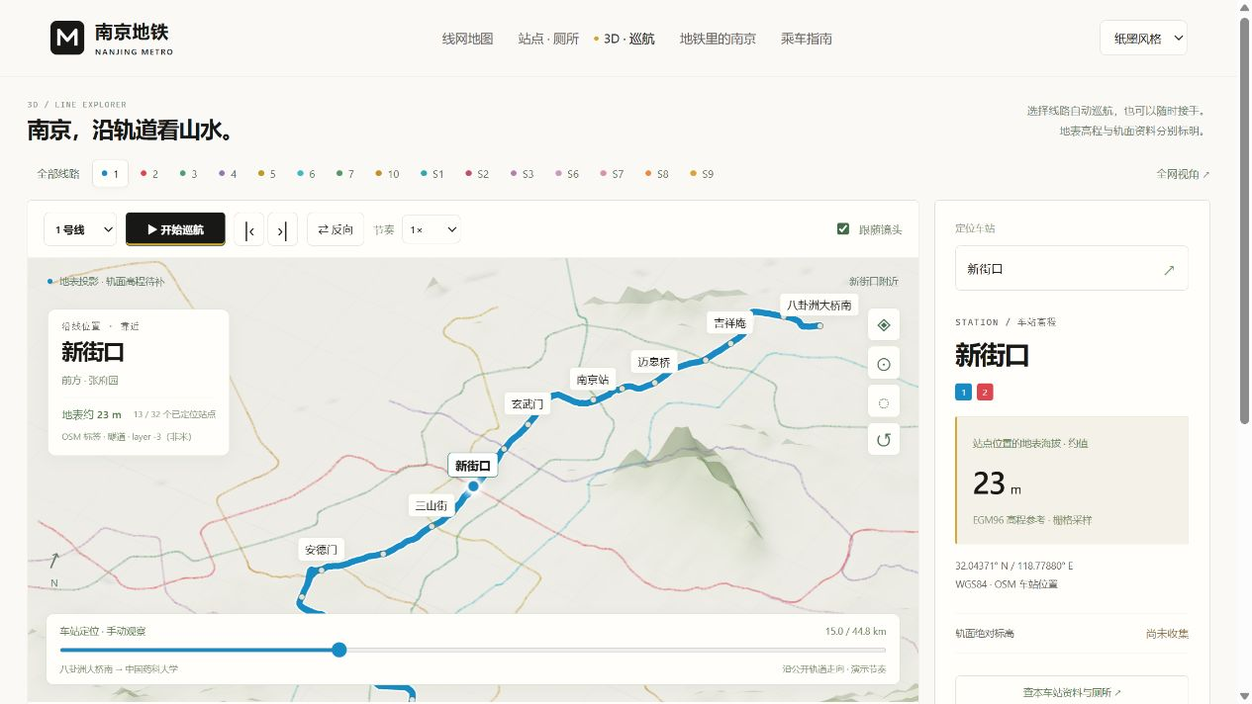
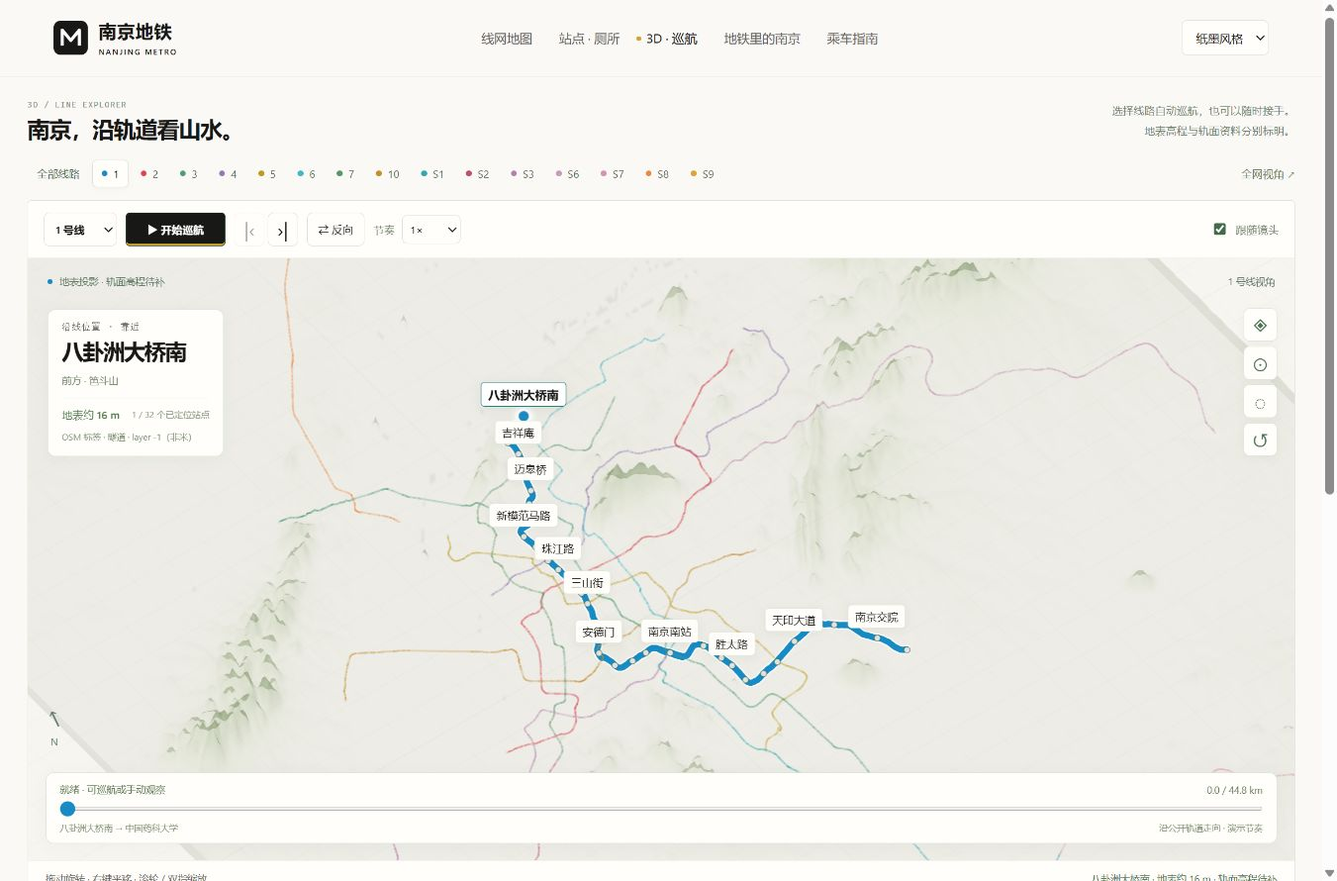
feat: 扩大巡航展示区域

diff --git a/src/terrain.css b/src/terrain.css
@@ -1,12 +1,26 @@
-:root{--bg:#f5f7f3;--ink:#21382b;--muted:#7f8c80;--border:#dce3d8;--font:Inter,"Segoe UI","PingFang SC","Microsoft YaHei",sans-serif}*{box-sizing:border-box}body{margin:0;background:var(--bg);color:var(--ink);font:14px var(--font);-webkit-font-smoothing:antialiased}button,input{font:inherit}button,a{-webkit-tap-highlight-color:transparent}button{cursor:pointer}a{color:inherit;text-decoration:none}button:focus-visible,a:focus-visible,input:focus-visible,summary:focus-visible{outline:2px solid #4d8561;outline-offset:4px}.atlas-header{height:84px;display:flex;justify-content:space-between;align-items:center;max-width:1580px;padding:0 38px;margin:auto;border-bottom:1px solid var(--border)}.atlas-brand{display:flex;align-items:center;gap:12px;font-size:18px;font-weight:650;letter-spacing:.03em}.atlas-brand small{display:block;font-size:8px;letter-spacing:.15em;font-weight:500;margin-top:5px;color:#839080}.brand-symbol{width:35px;height:35px;display:flex;align-items:center;justify-content:center;border-radius:8px;background:#233d2a;color:white;font-size:26px;font-weight:550}.back-link{font-size:12px;color:#798674}.back-link span{margin-left:15px}main{max-width:1580px;margin:auto;padding:0 38px}.atlas-heading{display:flex;align-items:flex-end;justify-content:space-between;gap:25px;padding:32px 0 25px}.eyebrow{font-size:10px;letter-spacing:.16em;color:#83917e;margin:0 0 12px}h1{font-size:32px;letter-spacing:-.05em;line-height:1.5;font-weight:600;margin:0}h1>span{color:#588253}.atlas-heading>p{font-size:11px;line-height:1.9;color:#84907f;margin:0 0 3px;text-align:right}.atlas-toolbar{display:flex;gap:15px;align-items:center;justify-content:space-between;margin-bottom:14px}.line-picker{display:flex;align-items:center;gap:5px;flex-wrap:wrap}.line-picker button{padding:7px 10px;border:1px solid transparent;border-radius:5px;background:transparent;color:#75816d;display:flex;align-items:center;gap:6px;font-size:11px}.line-picker button:hover{background:#e9eee3}.line-picker button[aria-pressed=true]{background:#233a29;color:white;border-color:#233a29}.line-picker i{width:5px;height:5px;border-radius:50%;background:var(--line-color);display:inline-block}.text-button{font-size:11px;color:#6d8362;white-space:nowrap;border:0;background:none;padding:8px 0}.atlas-workspace{display:grid;grid-template-columns:minmax(0,1fr) 290px;gap:18px}.map-card{position:relative;border:1px solid var(--border);border-radius:12px;background:#fff;min-width:0;overflow:hidden}.map-topline{position:absolute;z-index:3;top:21px;left:22px;right:22px;display:flex;justify-content:space-between;gap:12px;font-size:10px;color:#8b9682;pointer-events:none}.map-mode{display:flex;gap:7px;align-items:center}.map-mode i{width:5px;height:5px;background:#4f865d;border-radius:50%}.terrain-view{height:min(67vh,740px);min-height:540px;position:relative;touch-action:none;background:#f9fbf5;outline:0}.terrain-view canvas{display:block;width:100%;height:100%;outline:0}.terrain-labels{position:absolute;inset:0;pointer-events:none;overflow:hidden;z-index:2}.terrain-label{position:absolute;white-space:nowrap;transform:translate(-50%,-100%);font-size:10px;color:#42543d;background:#fcfdf9dd;border:1px solid #e1e8d9;border-radius:4px;padding:4px 7px;box-shadow:0 2px 4px #1b372405}.terrain-label.active{font-size:12px;font-weight:600;color:#345d3b;border-color:#8daa83;background:#fff}.terrain-label.terrain-feature{color:#92a588;font-size:11px;background:transparent;border:0;box-shadow:none;letter-spacing:.08em}.map-loading{position:absolute;inset:0;z-index:4;display:flex;flex-direction:column;gap:15px;align-items:center;justify-content:center;font-size:13px;color:#788c6a;background:#f9fbf5}.map-loading[hidden]{display:none}.map-loading a{text-decoration:underline}.map-float-controls{position:absolute;z-index:4;top:58px;right:19px;display:flex;flex-direction:column;gap:5px}.map-float-controls button{border:1px solid #dfe6d6;background:#fffffff0;border-radius:6px;width:34px;height:34px;color:#6a805d;font-size:20px}.map-float-controls button:hover{background:#edf3e7}.map-compass{position:absolute;left:22px;bottom:104px;z-index:3;font-size:10px;color:#95a28a;display:flex;flex-direction:column;align-items:center;gap:5px;pointer-events:none}.map-compass>span{font-size:25px;line-height:1}.map-foot{border-top:1px solid #edf0e8;display:flex;justify-content:space-between;gap:20px;padding:13px 20px;font-size:10px;color:#8f9b86;line-height:1.7}.map-foot>span:last-child{color:#68855e;text-align:right}.terrain-adjust{border-top:1px solid #edf0e8;padding:14px 20px;display:flex;align-items:center;gap:23px;flex-wrap:wrap;background:#fbfcf8;font-size:10px;color:#819175}.terrain-adjust label{display:flex;align-items:center;gap:12px;white-space:nowrap}.terrain-adjust input[type=range]{width:95px;height:3px;accent-color:#628958;cursor:pointer}.terrain-adjust output{min-width:28px;color:#4f774b}.terrain-adjust input[type=checkbox]{accent-color:#628958}.terrain-adjust>span{margin-left:auto;font-size:9px;color:#9aa58f}.atlas-panel{border:1px solid var(--border);border-radius:12px;background:#fff;padding:23px;min-width:0}.station-search>label{font-size:10px;color:#92a088;display:block;margin-bottom:11px}.station-search>div{display:flex;align-items:center;border:1px solid #dee6d5;border-radius:6px;background:#fafcf7}.station-search input{border:0;background:none;min-width:0;width:100%;padding:11px 12px;color:#3c5538;font-size:12px;outline:0}.station-search button{border:0;background:none;padding:10px 13px;color:#78986b;font-size:19px}.station-search output{font-size:10px;line-height:1.8;color:#a38755;display:block;margin-top:6px}.terrain-station-detail{margin-top:25px}.detail-kicker{font-size:9px;letter-spacing:.11em;color:#96a18c}.terrain-station-detail h2{font-size:28px;font-weight:550;letter-spacing:-1px;margin:8px 0 13px}.detail-line-badges{display:flex;gap:5px;margin-bottom:23px}.line-badge{padding:3px 6px;background:var(--line-color);color:white;border-radius:3px;font-size:9px}.elevation-fact{padding:19px 16px;background:#f0f5e9;border:1px solid #e3ebd8;border-radius:7px}.elevation-fact>span{font-size:10px;color:#859877}.elevation-fact>strong{display:block;font-size:36px;font-weight:550;color:#42683a;margin-top:10px;letter-spacing:-1px}.elevation-fact small{font-size:13px;letter-spacing:0;font-weight:400;margin-left:5px}.elevation-fact>p{font-size:10px;color:#96a38a;line-height:1.7;margin-bottom:0}.coordinate-fact{font-size:10px;color:#9ba58f;margin:12px 0 20px;line-height:1.9}.rail-fact{padding:13px 0;border-top:1px solid #e9ede3;border-bottom:1px solid #e9ede3;display:flex;justify-content:space-between;align-items:center;font-size:10px;color:#8f9b85}.rail-fact strong{font-size:11px;font-weight:450;color:#a18b63}.engineering-fact{margin:18px 0}.engineering-fact>h3{font-size:11px;font-weight:550;color:#667f5b;margin:0 0 10px}.engineering-record{border-left:2px solid #c1d3b1;padding-left:12px;margin:13px 0}.engineering-record p{font-size:11px;line-height:1.85;margin:0 0 6px;color:#718767}.engineering-record small{display:block;color:#a2ac95;font-size:9px;line-height:1.7}.engineering-record a{font-size:9px;color:#91a281;text-decoration:underline;text-underline-offset:3px;line-height:1.7;display:inline-block;margin-top:5px}.detail-link{display:block;border:1px solid #d9e3cc;border-radius:5px;padding:10px 13px;font-size:10px;color:#718967;margin:22px 0 0;text-align:center}.terrain-profile{border-top:1px solid #e5ebdd;margin-top:25px;padding-top:19px}.terrain-profile h3{font-size:11px;font-weight:500;margin:0 0 12px;color:#738868}.terrain-profile svg{width:100%;height:112px;overflow:visible}.terrain-profile p{font-size:9px;color:#a2ac97;line-height:1.8;margin-bottom:0}.atlas-bottom{display:flex;justify-content:space-between;gap:35px;margin:19px 0 27px}.atlas-bottom strong{font-size:10px;font-weight:500;color:#788c6e}.atlas-bottom p{font-size:10px;color:#98a28d;line-height:1.9;margin-bottom:0}.altitude-legend{width:200px;flex-shrink:0;padding-top:2px;font-size:9px;color:#96a187}.altitude-legend>i{display:block;height:5px;background:linear-gradient(to right,#e8edde,#c4d5ab,#8dab74,#6f8c5a,#d9d0ae);border-radius:4px;margin:10px 0 7px}.altitude-legend>div{display:flex;justify-content:space-between}.source-notes{border-top:1px solid var(--border);font-size:11px;color:#839576;padding:19px 0}.source-notes summary{cursor:pointer;display:flex;gap:20px;justify-content:space-between;list-style:none}.source-notes summary>span{font-size:9px;color:#9fa991}.source-notes p{font-size:10px;line-height:1.9;max-width:1000px}.source-notes a{text-decoration:underline;text-underline-offset:3px}.source-note-row{padding:13px 0;border-bottom:1px solid #e6ebdf}.source-note-row p{margin:5px 0 0}footer{max-width:1580px;margin:0 auto;padding:26px 38px 32px;border-top:1px solid var(--border);font-size:10px;color:#a0aa94;display:flex;justify-content:space-between}
-@media(min-width:1500px){.atlas-workspace{grid-template-columns:minmax(0,1fr) 320px}.atlas-panel{padding:27px}}@media(max-width:1100px){main,.atlas-header{padding-left:25px;padding-right:25px}.atlas-heading>p{display:none}.atlas-workspace{grid-template-columns:minmax(0,1fr) 260px}.atlas-panel{padding:20px}.terrain-adjust{gap:15px}.terrain-adjust>span{width:100%;margin-left:0}.terrain-view{min-height:510px}}@media(max-width:900px){.atlas-workspace{display:block}.atlas-panel{margin-top:16px;display:grid;grid-template-columns:1fr 1fr;gap:0 28px}.station-search{grid-column:1/-1}.terrain-station-detail{grid-column:1}.terrain-profile{grid-column:2;margin-top:25px;align-self:start}.terrain-view{height:560px;min-height:0}.atlas-heading{padding-top:27px}.atlas-heading h1{font-size:28px}.atlas-toolbar{align-items:flex-start}.map-topline{top:18px}.map-foot{font-size:9px}.map-float-controls{top:51px}.atlas-bottom{gap:20px}.altitude-legend{width:170px}}@media(max-width:560px){main,.atlas-header{padding-left:18px;padding-right:18px}.atlas-header{height:72px}.atlas-brand{font-size:16px}.back-link{font-size:10px}.atlas-heading h1{font-size:23px}.atlas-heading{padding-bottom:20px}.eyebrow{font-size:9px}.line-picker{gap:3px}.line-picker button{font-size:10px;padding:7px 8px}.text-button{font-size:10px}.terrain-view{height:460px}.map-topline{left:15px;right:15px;font-size:9px}.map-float-controls{right:12px}.map-compass{left:16px;bottom:126px}.map-foot{padding:12px 14px;display:block}.map-foot>span:last-child{display:block;text-align:left;margin-top:5px}.terrain-adjust{padding:12px 14px;gap:10px 15px}.terrain-adjust label{gap:9px}.terrain-adjust input[type=range]{width:84px}.atlas-panel{display:block;padding:20px}.terrain-station-detail{margin-top:20px}.atlas-bottom{display:block}.altitude-legend{margin-top:17px;width:190px}.source-notes summary>span{display:none}footer{padding:23px 18px;font-size:9px;gap:20px}.terrain-label{font-size:9px;padding:3px 5px}.terrain-label.active{font-size:10px}}
+:root{--bg:#f5f7f3;--ink:#21382b;--muted:#7f8c80;--border:#dce3d8;--font:Inter,"Segoe UI","PingFang SC","Microsoft YaHei",sans-serif}*{box-sizing:border-box}body{margin:0;background:var(--bg);color:var(--ink);font:14px var(--font);-webkit-font-smoothing:antialiased}button,input{font:inherit}button,a{-webkit-tap-highlight-color:transparent}button{cursor:pointer}a{color:inherit;text-decoration:none}button:focus-visible,a:focus-visible,input:focus-visible,summary:focus-visible{outline:2px solid #4d8561;outline-offset:4px}.atlas-header{height:84px;display:flex;justify-content:space-between;align-items:center;max-width:1580px;padding:0 38px;margin:auto;border-bottom:1px solid var(--border)}.atlas-brand{display:flex;align-items:center;gap:12px;font-size:18px;font-weight:650;letter-spacing:.03em}.atlas-brand small{display:block;font-size:8px;letter-spacing:.15em;font-weight:500;margin-top:5px;color:#839080}.brand-symbol{width:35px;height:35px;display:flex;align-items:center;justify-content:center;border-radius:8px;background:#233d2a;color:white;font-size:26px;font-weight:550}.back-link{font-size:12px;color:#798674}.back-link span{margin-left:15px}main{max-width:1580px;margin:auto;padding:0 38px}.atlas-heading{display:flex;align-items:flex-end;justify-content:space-between;gap:25px;padding:32px 0 25px}.eyebrow{font-size:10px;letter-spacing:.16em;color:#83917e;margin:0 0 12px}h1{font-size:32px;letter-spacing:-.05em;line-height:1.5;font-weight:600;margin:0}h1>span{color:#588253}.atlas-heading>p{font-size:11px;line-height:1.9;color:#84907f;margin:0 0 3px;text-align:right}.atlas-toolbar{display:flex;gap:15px;align-items:center;justify-content:space-between;margin-bottom:14px}.line-picker{display:flex;align-items:center;gap:5px;flex-wrap:wrap}.line-picker button{padding:7px 10px;border:1px solid transparent;border-radius:5px;background:transparent;color:#75816d;display:flex;align-items:center;gap:6px;font-size:11px}.line-picker button:hover{background:#e9eee3}.line-picker button[aria-pressed=true]{background:#233a29;color:white;border-color:#233a29}.line-picker i{width:5px;height:5px;border-radius:50%;background:var(--line-color);display:inline-block}.text-button{font-size:11px;color:#6d8362;white-space:nowrap;border:0;background:none;padding:8px 0}.map-card{position:relative;border:1px solid var(--border);border-radius:12px;background:#fff;min-width:0;overflow:hidden}.map-topline{position:absolute;z-index:3;top:21px;left:22px;right:22px;display:flex;justify-content:space-between;gap:12px;font-size:10px;color:#8b9682;pointer-events:none}.map-mode{display:flex;gap:7px;align-items:center}.map-mode i{width:5px;height:5px;background:#4f865d;border-radius:50%}.terrain-view{height:min(67vh,740px);min-height:540px;position:relative;touch-action:none;background:#f9fbf5;outline:0}.terrain-view canvas{display:block;width:100%;height:100%;outline:0}.terrain-labels{position:absolute;inset:0;pointer-events:none;overflow:hidden;z-index:2}.terrain-label{position:absolute;white-space:nowrap;transform:translate(-50%,-100%);font-size:10px;color:#42543d;background:#fcfdf9dd;border:1px solid #e1e8d9;border-radius:4px;padding:4px 7px;box-shadow:0 2px 4px #1b372405}.terrain-label.active{font-size:12px;font-weight:600;color:#345d3b;border-color:#8daa83;background:#fff}.terrain-label.terrain-feature{color:#92a588;font-size:11px;background:transparent;border:0;box-shadow:none;letter-spacing:.08em}.map-loading{position:absolute;inset:0;z-index:4;display:flex;flex-direction:column;gap:15px;align-items:center;justify-content:center;font-size:13px;color:#788c6a;background:#f9fbf5}.map-loading[hidden]{display:none}.map-loading a{text-decoration:underline}.map-float-controls{position:absolute;z-index:4;top:58px;right:19px;display:flex;flex-direction:column;gap:5px}.map-float-controls button{border:1px solid #dfe6d6;background:#fffffff0;border-radius:6px;width:34px;height:34px;color:#6a805d;font-size:20px}.map-float-controls button:hover{background:#edf3e7}.map-compass{position:absolute;left:22px;bottom:104px;z-index:3;font-size:10px;color:#95a28a;display:flex;flex-direction:column;align-items:center;gap:5px;pointer-events:none}.map-compass>span{font-size:25px;line-height:1}.map-foot{border-top:1px solid #edf0e8;display:flex;justify-content:space-between;gap:20px;padding:13px 20px;font-size:10px;color:#8f9b86;line-height:1.7}.map-foot>span:last-child{color:#68855e;text-align:right}.terrain-adjust{border-top:1px solid #edf0e8;padding:14px 20px;display:flex;align-items:center;gap:23px;flex-wrap:wrap;background:#fbfcf8;font-size:10px;color:#819175}.terrain-adjust label{display:flex;align-items:center;gap:12px;white-space:nowrap}.terrain-adjust input[type=range]{width:95px;height:3px;accent-color:#628958;cursor:pointer}.terrain-adjust output{min-width:28px;color:#4f774b}.terrain-adjust input[type=checkbox]{accent-color:#628958}.terrain-adjust>span{margin-left:auto;font-size:9px;color:#9aa58f}.station-search>label{font-size:10px;color:#92a088;display:block;margin-bottom:11px}.station-search>div{display:flex;align-items:center;border:1px solid #dee6d5;border-radius:6px;background:#fafcf7}.station-search input{border:0;background:none;min-width:0;width:100%;padding:11px 12px;color:#3c5538;font-size:12px;outline:0}.station-search button{border:0;background:none;padding:10px 13px;color:#78986b;font-size:19px}.station-search output{font-size:10px;line-height:1.8;color:#a38755;display:block;margin-top:6px}.detail-kicker{font-size:9px;letter-spacing:.11em;color:#96a18c}.terrain-station-detail h2{font-size:28px;font-weight:550;letter-spacing:-1px;margin:8px 0 13px}.detail-line-badges{display:flex;gap:5px;margin-bottom:23px}.line-badge{padding:3px 6px;background:var(--line-color);color:white;border-radius:3px;font-size:9px}.elevation-fact{padding:19px 16px;background:#f0f5e9;border:1px solid #e3ebd8;border-radius:7px}.elevation-fact>span{font-size:10px;color:#859877}.elevation-fact>strong{display:block;font-size:36px;font-weight:550;color:#42683a;margin-top:10px;letter-spacing:-1px}.elevation-fact small{font-size:13px;letter-spacing:0;font-weight:400;margin-left:5px}.elevation-fact>p{font-size:10px;color:#96a38a;line-height:1.7;margin-bottom:0}.coordinate-fact{font-size:10px;color:#9ba58f;margin:12px 0 20px;line-height:1.9}.rail-fact{padding:13px 0;border-top:1px solid #e9ede3;border-bottom:1px solid #e9ede3;display:flex;justify-content:space-between;align-items:center;font-size:10px;color:#8f9b85}.rail-fact strong{font-size:11px;font-weight:450;color:#a18b63}.engineering-fact{margin:18px 0}.engineering-fact>h3{font-size:11px;font-weight:550;color:#667f5b;margin:0 0 10px}.engineering-record{border-left:2px solid #c1d3b1;padding-left:12px;margin:13px 0}.engineering-record p{font-size:11px;line-height:1.85;margin:0 0 6px;color:#718767}.engineering-record small{display:block;color:#a2ac95;font-size:9px;line-height:1.7}.engineering-record a{font-size:9px;color:#91a281;text-decoration:underline;text-underline-offset:3px;line-height:1.7;display:inline-block;margin-top:5px}.detail-link{display:block;border:1px solid #d9e3cc;border-radius:5px;padding:10px 13px;font-size:10px;color:#718967;margin:22px 0 0;text-align:center}.terrain-profile{border-top:1px solid #e5ebdd;margin-top:25px;padding-top:19px}.terrain-profile h3{font-size:11px;font-weight:500;margin:0 0 12px;color:#738868}.terrain-profile svg{width:100%;height:112px;overflow:visible}.terrain-profile p{font-size:9px;color:#a2ac97;line-height:1.8;margin-bottom:0}.atlas-bottom{display:flex;justify-content:space-between;gap:35px;margin:19px 0 27px}.atlas-bottom strong{font-size:10px;font-weight:500;color:#788c6e}.atlas-bottom p{font-size:10px;color:#98a28d;line-height:1.9;margin-bottom:0}.altitude-legend{width:200px;flex-shrink:0;padding-top:2px;font-size:9px;color:#96a187}.altitude-legend>i{display:block;height:5px;background:linear-gradient(to right,#e8edde,#c4d5ab,#8dab74,#6f8c5a,#d9d0ae);border-radius:4px;margin:10px 0 7px}.altitude-legend>div{display:flex;justify-content:space-between}.source-notes{border-top:1px solid var(--border);font-size:11px;color:#839576;padding:19px 0}.source-notes summary{cursor:pointer;display:flex;gap:20px;justify-content:space-between;list-style:none}.source-notes summary>span{font-size:9px;color:#9fa991}.source-notes p{font-size:10px;line-height:1.9;max-width:1000px}.source-notes a{text-decoration:underline;text-underline-offset:3px}.source-note-row{padding:13px 0;border-bottom:1px solid #e6ebdf}.source-note-row p{margin:5px 0 0}footer{max-width:1580px;margin:0 auto;padding:26px 38px 32px;border-top:1px solid var(--border);font-size:10px;color:#a0aa94;display:flex;justify-content:space-between}
+@media(max-width:1100px){main,.atlas-header{padding-left:25px;padding-right:25px}.atlas-heading>p{display:none}.terrain-adjust{gap:15px}.terrain-adjust>span{width:100%;margin-left:0}.terrain-view{min-height:510px}}@media(max-width:900px){.terrain-profile{grid-column:2;margin-top:25px;align-self:start}.terrain-view{height:560px;min-height:0}.atlas-heading{padding-top:27px}.atlas-heading h1{font-size:28px}.atlas-toolbar{align-items:flex-start}.map-topline{top:18px}.map-foot{font-size:9px}.map-float-controls{top:51px}.atlas-bottom{gap:20px}.altitude-legend{width:170px}}@media(max-width:560px){main,.atlas-header{padding-left:18px;padding-right:18px}.atlas-header{height:72px}.atlas-brand{font-size:16px}.back-link{font-size:10px}.atlas-heading h1{font-size:23px}.atlas-heading{padding-bottom:20px}.eyebrow{font-size:9px}.line-picker{gap:3px}.line-picker button{font-size:10px;padding:7px 8px}.text-button{font-size:10px}.terrain-view{height:460px}.map-topline{left:15px;right:15px;font-size:9px}.map-float-controls{right:12px}.map-compass{left:16px;bottom:126px}.map-foot{padding:12px 14px;display:block}.map-foot>span:last-child{display:block;text-align:left;margin-top:5px}.terrain-adjust{padding:12px 14px;gap:10px 15px}.terrain-adjust label{gap:9px}.terrain-adjust input[type=range]{width:84px}.atlas-bottom{display:block}.altitude-legend{margin-top:17px;width:190px}.source-notes summary>span{display:none}footer{padding:23px 18px;font-size:9px;gap:20px}.terrain-label{font-size:9px;padding:3px 5px}.terrain-label.active{font-size:10px}}
 
 /* Working surface: the camera, playback controls and readings share one stage. */
-:root{--route-color:#188bc4;--muted:#687969}.sr-only{position:absolute;width:1px;height:1px;padding:0;margin:-1px;overflow:hidden;clip:rect(0,0,0,0);white-space:nowrap;border:0}.atlas-header{height:66px;padding:0 28px}.atlas-brand small{color:#748477}.back-link{color:#5d725f}main{padding:0 28px}.atlas-heading{padding:19px 0 15px;align-items:center}.atlas-heading .eyebrow{font-size:8px;margin:0 0 5px;letter-spacing:.14em}.atlas-heading h1{font-size:23px;line-height:1.3;letter-spacing:-.04em}.atlas-heading>p{color:#71826f;font-size:11px}.atlas-toolbar{margin-bottom:12px}.line-picker{gap:3px}.line-picker button{font-size:11px;padding:6px 9px;color:#536851}.line-picker button[aria-pressed=true]{background:var(--line-color,#233a29);border-color:var(--line-color,#233a29)}.line-picker i{width:6px;height:6px}.atlas-workspace{grid-template-columns:minmax(0,1fr) 282px;gap:16px}.map-card{box-shadow:0 6px 25px #263c2610}.terrain-view{height:min(63vh,720px);min-height:420px;background:#f8faf6}.map-topline{color:#607965;top:17px;left:20px;right:20px;font-size:10px}.map-mode i{background:var(--route-color)}.map-float-controls{top:51px;right:18px}.map-float-controls button{box-shadow:0 2px 9px #2043200b;color:#4b7055}.map-compass{left:21px;bottom:115px;color:#617d65}.map-foot{padding:10px 18px;font-size:10px;color:#6f816b;gap:10px}.map-foot>span:last-child{color:#4f7050}.terrain-adjust{padding:11px 18px;gap:12px 20px;font-size:10px;color:#587050;flex-wrap:wrap}.terrain-adjust input[type=range]{width:70px;accent-color:var(--route-color)}.terrain-adjust>span{font-size:9px;color:#829079;width:auto;margin-left:auto}.terrain-label{pointer-events:auto;cursor:pointer;font-family:var(--font);font-size:11px;padding:4px 7px;color:#3e5847;box-shadow:0 2px 9px #1735180d}.terrain-label.active{font-size:12px;box-shadow:0 3px 13px #123f1a16}.terrain-label:hover{border-color:#769f83;background:#fff}.cruise-toolbar{display:flex;align-items:center;gap:9px;flex-wrap:wrap;padding:12px 16px;border-bottom:1px solid #e3e9df;background:#fff;position:relative;z-index:6;font-size:11px}.cruise-toolbar button,.cruise-toolbar select{height:34px;border:1px solid #dce5d5;border-radius:6px;background:#fafcf8;color:#50654b;font:inherit}.cruise-toolbar button{padding:0 11px;white-space:nowrap}.cruise-toolbar button:hover{background:#ecf3e8}.cruise-toolbar select{padding:0 8px;cursor:pointer}.cruise-toolbar .play-button{background:#244331;color:white;border-color:#244331;min-width:102px;font-weight:550}.cruise-toolbar .play-button:hover{background:#356046}.cruise-line-label select{min-width:74px;font-weight:550}.station-step{display:flex;gap:3px}.station-step button{font-size:20px;width:31px;padding:0;color:#638169}.speed-label,.follow-label{display:flex;gap:7px;align-items:center;color:#7b8b74}.speed-label select{height:30px;width:60px;padding:0 4px}.follow-label{margin-left:auto;white-space:nowrap}.follow-label input{accent-color:#426c49}.cruise-location{position:absolute;z-index:3;top:52px;left:20px;background:#ffffffed;border:1px solid #dae5d4;border-radius:8px;padding:12px 14px;box-shadow:0 3px 16px #24472b09;pointer-events:none;max-width:220px}.hud-kicker{font-size:9px;letter-spacing:.08em;color:#81937a;display:block}.cruise-location>strong{display:block;font-size:22px;letter-spacing:-.04em;margin:4px 0 5px;font-weight:600}.cruise-location>span:not(.hud-kicker){font-size:10px;color:#7c8f74}.cruise-location>div{border-top:1px solid #e6ece1;margin-top:10px;padding-top:9px;display:flex;flex-wrap:wrap;gap:6px 12px;align-items:center}.cruise-location b{font-size:11px;color:#4f794c;font-weight:500}.cruise-location>div>span{font-size:9px;color:#8a9981}.cruise-scrubber{position:absolute;z-index:5;left:18px;right:18px;bottom:17px;border:1px solid #dbe5d2;background:#ffffffed;padding:10px 14px;border-radius:8px;box-shadow:0 3px 14px #25412309}.cruise-scrubber>div{display:flex;justify-content:space-between;gap:12px;align-items:center;font-size:10px;color:#5f7954}.cruise-scrubber input{width:100%;height:4px;display:block;cursor:pointer;accent-color:var(--route-color);margin:11px 0}.cruise-scrubber .cruise-route-meta{font-size:9px;color:#839578}.cruise-route-meta>span:last-child{text-align:right}.cruise-route-meta>span:first-child{white-space:nowrap;overflow:hidden;text-overflow:ellipsis;max-width:70%}.terrain-profile{margin:0;padding:14px 18px 12px;border-top:1px solid #e2e8db;background:#fcfdf9;grid-column:auto}.terrain-profile h3{font-size:11px;color:#59744e;margin:0 0 5px}.terrain-profile svg{height:104px;width:100%;display:block}.terrain-profile p{font-size:9px;color:#829175;margin:2px 0 0}.atlas-panel{padding:21px;border-color:#dbe3d5;align-self:start}.terrain-station-detail{margin-top:21px}.terrain-station-detail h2{font-size:26px}.detail-kicker{color:#7a8c71}.elevation-fact>span{color:#6b855b}.elevation-fact>p{color:#7c916d}.coordinate-fact{color:#819377}.rail-fact{color:#728568}.rail-fact strong{color:#8a7146}.detail-line-badges{margin-bottom:16px}.elevation-fact{padding:16px}.elevation-fact>strong{font-size:32px}.detail-link{color:#5a7951}.engineering-record small{color:#8a9c7f}.engineering-record a{color:#6d8960}.atlas-bottom{margin:17px 0 22px}.atlas-bottom strong{color:#6f8363}.atlas-bottom p{color:#7e8e73}.source-notes{color:#688158}.source-notes summary>span{color:#819277}footer{padding:23px 28px;color:#829475}
-@media(max-width:1100px){main,.atlas-header{padding-left:22px;padding-right:22px}.atlas-workspace{grid-template-columns:minmax(0,1fr) 246px}.cruise-toolbar{gap:6px;padding:10px 12px}.follow-label{margin-left:0}.atlas-panel{padding:18px}.terrain-adjust{gap:10px 13px}.terrain-adjust>span{width:auto}.terrain-view{min-height:440px}}
-@media(max-width:900px){.atlas-workspace{display:block}.atlas-heading{padding-top:17px}.atlas-heading h1{font-size:21px}.terrain-view{height:510px;min-height:0}.atlas-panel{display:block;margin-top:15px}.terrain-station-detail{margin-top:20px}.cruise-toolbar{gap:10px}.follow-label{margin-left:auto}.terrain-profile{margin:0}.atlas-heading>p{display:none}}
-@media(max-width:560px){main,.atlas-header{padding-left:15px;padding-right:15px}.atlas-header{height:61px}.atlas-brand{font-size:16px}.atlas-brand small{font-size:7px}.brand-symbol{width:31px;height:31px;font-size:23px}.atlas-heading{padding:16px 0 12px}.atlas-heading h1{font-size:20px}.atlas-toolbar{margin-bottom:10px;gap:6px}.line-picker button{padding:5px 7px;font-size:10px;gap:4px}.line-picker i{width:5px;height:5px}.text-button{font-size:10px}.cruise-toolbar{padding:10px;gap:7px}.cruise-toolbar button,.cruise-toolbar select{height:32px}.cruise-toolbar .play-button{min-width:96px;padding:0 9px}.cruise-line-label select{min-width:69px}.cruise-toolbar #cruise-reverse{padding:0 9px}.cruise-toolbar #cruise-reverse span{display:none}.speed-label{margin-left:2px;font-size:10px}.speed-label select{height:28px;width:54px}.follow-label{font-size:10px;margin-left:auto}.terrain-view{height:430px}.map-topline{top:13px;left:13px;right:13px;font-size:9px}.cruise-location{top:42px;left:13px;padding:10px 12px;max-width:190px}.cruise-location>strong{font-size:19px}.cruise-location>div{gap:5px 10px;padding-top:7px;margin-top:8px}.map-float-controls{top:43px;right:12px}.map-float-controls button{width:31px;height:31px}.map-compass{bottom:120px;left:14px}.cruise-scrubber{left:10px;right:10px;bottom:12px;padding:9px 10px}.cruise-scrubber>div{font-size:9px}.cruise-scrubber .cruise-route-meta{font-size:8px;align-items:flex-start}.cruise-route-meta>span:last-child{max-width:43%}.cruise-route-meta>span:first-child{max-width:60%}.map-foot{padding:9px 12px;font-size:9px}.map-foot>span:last-child{margin-top:3px}.terrain-adjust{padding:10px 12px;gap:10px 12px}.terrain-adjust label{gap:7px}.terrain-adjust input[type=range]{width:64px}.terrain-adjust>span{display:none}.terrain-profile{padding:12px}.terrain-profile svg{height:100px}.terrain-profile p{font-size:8px}.terrain-label{font-size:10px;padding:3px 6px}.terrain-label.active{font-size:11px}.atlas-panel{padding:18px}.atlas-bottom{margin-top:15px}footer{padding:21px 15px}}
+:root{--route-color:#188bc4;--muted:#687969}.sr-only{position:absolute;width:1px;height:1px;padding:0;margin:-1px;overflow:hidden;clip:rect(0,0,0,0);white-space:nowrap;border:0}.atlas-header{height:66px;padding:0 28px}.atlas-brand small{color:#748477}.back-link{color:#5d725f}main{padding:0 28px}.atlas-heading{padding:19px 0 15px;align-items:center}.atlas-heading .eyebrow{font-size:8px;margin:0 0 5px;letter-spacing:.14em}.atlas-heading h1{font-size:23px;line-height:1.3;letter-spacing:-.04em}.atlas-heading>p{color:#71826f;font-size:11px}.atlas-toolbar{margin-bottom:12px}.line-picker{gap:3px}.line-picker button{font-size:11px;padding:6px 9px;color:#536851}.line-picker button[aria-pressed=true]{background:var(--line-color,#233a29);border-color:var(--line-color,#233a29)}.line-picker i{width:6px;height:6px}.map-card{box-shadow:0 6px 25px #263c2610}.terrain-view{height:clamp(420px,calc(100svh - 285px),840px);min-height:420px;background:#f8faf6}.map-topline{color:#607965;top:17px;left:20px;right:20px;font-size:10px}.map-mode i{background:var(--route-color)}.map-float-controls{top:51px;right:18px}.map-float-controls button{box-shadow:0 2px 9px #2043200b;color:#4b7055}.map-compass{left:21px;bottom:115px;color:#617d65}.map-foot{padding:10px 18px;font-size:10px;color:#6f816b;gap:10px}.map-foot>span:last-child{color:#4f7050}.terrain-adjust{padding:11px 18px;gap:12px 20px;font-size:10px;color:#587050;flex-wrap:wrap}.terrain-adjust input[type=range]{width:70px;accent-color:var(--route-color)}.terrain-adjust>span{font-size:9px;color:#829079;width:auto;margin-left:auto}.terrain-label{pointer-events:auto;cursor:pointer;font-family:var(--font);font-size:11px;padding:4px 7px;color:#3e5847;box-shadow:0 2px 9px #1735180d}.terrain-label.active{font-size:12px;box-shadow:0 3px 13px #123f1a16}.terrain-label:hover{border-color:#769f83;background:#fff}.cruise-toolbar{display:flex;align-items:center;gap:9px;flex-wrap:wrap;padding:12px 16px;border-bottom:1px solid #e3e9df;background:#fff;position:relative;z-index:6;font-size:11px}.cruise-toolbar button,.cruise-toolbar select{height:34px;border:1px solid #dce5d5;border-radius:6px;background:#fafcf8;color:#50654b;font:inherit}.cruise-toolbar button{padding:0 11px;white-space:nowrap}.cruise-toolbar button:hover{background:#ecf3e8}.cruise-toolbar select{padding:0 8px;cursor:pointer}.cruise-toolbar .play-button{background:#244331;color:white;border-color:#244331;min-width:102px;font-weight:550}.cruise-toolbar .play-button:hover{background:#356046}.cruise-line-label select{min-width:74px;font-weight:550}.station-step{display:flex;gap:3px}.station-step button{font-size:20px;width:31px;padding:0;color:#638169}.speed-label,.follow-label{display:flex;gap:7px;align-items:center;color:#7b8b74}.speed-label select{height:30px;width:60px;padding:0 4px}.follow-label{margin-left:auto;white-space:nowrap}.follow-label input{accent-color:#426c49}.cruise-location{position:absolute;z-index:3;top:52px;left:20px;background:#ffffffed;border:1px solid #dae5d4;border-radius:8px;padding:12px 14px;box-shadow:0 3px 16px #24472b09;pointer-events:none;max-width:220px}.hud-kicker{font-size:9px;letter-spacing:.08em;color:#81937a;display:block}.cruise-location>strong{display:block;font-size:22px;letter-spacing:-.04em;margin:4px 0 5px;font-weight:600}.cruise-location>span:not(.hud-kicker){font-size:10px;color:#7c8f74}.cruise-location>div{border-top:1px solid #e6ece1;margin-top:10px;padding-top:9px;display:flex;flex-wrap:wrap;gap:6px 12px;align-items:center}.cruise-location b{font-size:11px;color:#4f794c;font-weight:500}.cruise-location>div>span{font-size:9px;color:#8a9981}.cruise-scrubber{position:absolute;z-index:5;left:18px;right:18px;bottom:17px;border:1px solid #dbe5d2;background:#ffffffed;padding:10px 14px;border-radius:8px;box-shadow:0 3px 14px #25412309}.cruise-scrubber>div{display:flex;justify-content:space-between;gap:12px;align-items:center;font-size:10px;color:#5f7954}.cruise-scrubber input{width:100%;height:4px;display:block;cursor:pointer;accent-color:var(--route-color);margin:11px 0}.cruise-scrubber .cruise-route-meta{font-size:9px;color:#839578}.cruise-route-meta>span:last-child{text-align:right}.cruise-route-meta>span:first-child{white-space:nowrap;overflow:hidden;text-overflow:ellipsis;max-width:70%}.terrain-profile{margin:0;padding:14px 18px 12px;border-top:1px solid #e2e8db;background:#fcfdf9;grid-column:auto}.terrain-profile h3{font-size:11px;color:#59744e;margin:0 0 5px}.terrain-profile svg{height:104px;width:100%;display:block}.terrain-profile p{font-size:9px;color:#829175;margin:2px 0 0}.terrain-station-detail h2{font-size:26px}.detail-kicker{color:#7a8c71}.elevation-fact>span{color:#6b855b}.elevation-fact>p{color:#7c916d}.coordinate-fact{color:#819377}.rail-fact{color:#728568}.rail-fact strong{color:#8a7146}.detail-line-badges{margin-bottom:16px}.elevation-fact{padding:16px}.elevation-fact>strong{font-size:32px}.detail-link{color:#5a7951}.engineering-record small{color:#8a9c7f}.engineering-record a{color:#6d8960}.atlas-bottom{margin:17px 0 22px}.atlas-bottom strong{color:#6f8363}.atlas-bottom p{color:#7e8e73}.source-notes{color:#688158}.source-notes summary>span{color:#819277}footer{padding:23px 28px;color:#829475}
+@media(max-width:1100px){main,.atlas-header{padding-left:22px;padding-right:22px}.cruise-toolbar{gap:6px;padding:10px 12px}.follow-label{margin-left:0}.terrain-adjust{gap:10px 13px}.terrain-adjust>span{width:auto}.terrain-view{min-height:440px}}
+@media(max-width:900px){.atlas-heading{padding-top:17px}.atlas-heading h1{font-size:21px}.terrain-view{height:510px;min-height:0}.cruise-toolbar{gap:10px}.follow-label{margin-left:auto}.terrain-profile{margin:0}.atlas-heading>p{display:none}}
+@media(max-width:560px){main,.atlas-header{padding-left:15px;padding-right:15px}.atlas-header{height:61px}.atlas-brand{font-size:16px}.atlas-brand small{font-size:7px}.brand-symbol{width:31px;height:31px;font-size:23px}.atlas-heading{padding:16px 0 12px}.atlas-heading h1{font-size:20px}.atlas-toolbar{margin-bottom:10px;gap:6px}.line-picker button{padding:5px 7px;font-size:10px;gap:4px}.line-picker i{width:5px;height:5px}.text-button{font-size:10px}.cruise-toolbar{padding:10px;gap:7px}.cruise-toolbar button,.cruise-toolbar select{height:32px}.cruise-toolbar .play-button{min-width:96px;padding:0 9px}.cruise-line-label select{min-width:69px}.cruise-toolbar #cruise-reverse{padding:0 9px}.cruise-toolbar #cruise-reverse span{display:none}.speed-label{margin-left:2px;font-size:10px}.speed-label select{height:28px;width:54px}.follow-label{font-size:10px;margin-left:auto}.terrain-view{height:430px}.map-topline{top:13px;left:13px;right:13px;font-size:9px}.cruise-location{top:42px;left:13px;padding:10px 12px;max-width:190px}.cruise-location>strong{font-size:19px}.cruise-location>div{gap:5px 10px;padding-top:7px;margin-top:8px}.map-float-controls{top:43px;right:12px}.map-float-controls button{width:31px;height:31px}.map-compass{bottom:120px;left:14px}.cruise-scrubber{left:10px;right:10px;bottom:12px;padding:9px 10px}.cruise-scrubber>div{font-size:9px}.cruise-scrubber .cruise-route-meta{font-size:8px;align-items:flex-start}.cruise-route-meta>span:last-child{max-width:43%}.cruise-route-meta>span:first-child{max-width:60%}.map-foot{padding:9px 12px;font-size:9px}.map-foot>span:last-child{margin-top:3px}.terrain-adjust{padding:10px 12px;gap:10px 12px}.terrain-adjust label{gap:7px}.terrain-adjust input[type=range]{width:64px}.terrain-adjust>span{display:none}.terrain-profile{padding:12px}.terrain-profile svg{height:100px}.terrain-profile p{font-size:8px}.terrain-label{font-size:10px;padding:3px 6px}.terrain-label.active{font-size:11px}.atlas-bottom{margin-top:15px}footer{padding:21px 15px}}
 @media(prefers-reduced-motion:reduce){*{scroll-behavior:auto!important}}
 .cruise-location small{display:block;font-size:9px;color:#809378;line-height:1.7;margin-top:8px;max-width:195px}.map-float-controls button[aria-pressed=true]{border-color:#6e987c;background:#e5f0e4;color:#315f40}
 .cruise-toolbar button:disabled{opacity:.4;cursor:default}
 .line-picker button[aria-pressed=true]{background:#fff;color:#2a4332;border-color:var(--line-color,#496e46);box-shadow:0 2px 6px #2744210a}
+
+/* The route fills the stage; station information follows underneath. */
+.atlas-workspace{display:grid;grid-template-columns:minmax(0,1fr);gap:16px}
+.atlas-panel{display:grid;grid-template-columns:230px minmax(0,1fr);gap:32px;align-items:start;border:1px solid var(--border);border-radius:12px;background:#fff;padding:22px;min-width:0}
+.terrain-station-detail{display:grid;grid-template-columns:minmax(0,1fr) minmax(0,1fr);gap:20px 28px;margin:0;min-width:0}
+.station-summary,.station-elevation{min-width:0}
+.station-summary .detail-kicker{margin-top:0}
+.station-summary .coordinate-fact{margin-bottom:14px}
+.station-summary .detail-link{display:inline-block;margin:0;text-align:left}
+.station-elevation .rail-fact{margin-top:12px}
+.terrain-station-detail .engineering-fact{grid-column:1/-1;margin:0;padding-top:16px;border-top:1px solid var(--border)}
+@media(max-width:900px){.atlas-panel{grid-template-columns:200px minmax(0,1fr);gap:24px;padding:20px}}
+@media(max-width:700px){.atlas-panel{grid-template-columns:minmax(0,1fr);gap:22px}.station-search{max-width:360px}}
+@media(max-width:560px){.atlas-panel{padding:18px}.terrain-station-detail{grid-template-columns:minmax(0,1fr);gap:18px}.station-search{max-width:none}.station-summary .coordinate-fact{margin-bottom:12px}}

diff --git a/src/terrain.js b/src/terrain.js
@@ -125,7 +125,7 @@ function renderStation(){
   const s=activeStation;if(!s)return;
   for(const entry of labels)entry.element.classList.toggle('active',entry.station.id===s.id);
   if(s.coordinate&&!labels.some(l=>l.station.id===s.id)){const element=document.createElement('span');element.className='terrain-label active';element.textContent=s.name;$('#terrain-labels').append(element);labels.push({station:s,element});}
-  $('#terrain-station-detail').innerHTML=`<p class="detail-kicker">STATION / 车站高程</p><h2>${escape(s.name)}</h2><div class="detail-line-badges">${s.line_ids.map(id=>`<span class="line-badge" style="--line-color:${colors[id]}">${id}</span>`).join('')}</div><div class="elevation-fact"><span>站点位置的地表海拔 · 约值</span><strong>${s.ground_elevation_m===null?'待补':Math.round(s.ground_elevation_m)}<small>${s.ground_elevation_m===null?'':'m'}</small></strong><p>EGM96 高程参考 · 栅格采样</p></div><p class="coordinate-fact">${s.coordinate?`${s.coordinate.latitude.toFixed(5)}° N / ${s.coordinate.longitude.toFixed(5)}° E<br>${s.coordinate.method==='official_address_osm_junction_approx'?'官网地址路口近似定位 · 站体中心待核对':'WGS84 · OSM 车站位置'}`:'尚未匹配可靠公开坐标。'}</p><div class="rail-fact"><span>轨面绝对标高</span><strong>${s.rail_elevation_status==='reference_only'?'有参考值 · 基准未注明':'尚未收集'}</strong></div>${s.engineering_observations.length?`<section class="engineering-fact"><h3>公开工程资料</h3>${s.engineering_observations.map(o=>`<div class="engineering-record"><p>${escape(o.description)}</p><small>${escape(source(o.source_id).published_at||'')} · ${escape(o.source_locator)}</small>${sourceAnchor(o.source_id)}</div>`).join('')}</section>`:''}<a class="detail-link" href="./?station=${encodeURIComponent(s.name)}#station-info">查本车站资料与厕所 ↗</a>`;
+  $('#terrain-station-detail').innerHTML=`<div class="station-summary"><p class="detail-kicker">STATION / 车站高程</p><h2>${escape(s.name)}</h2><div class="detail-line-badges">${s.line_ids.map(id=>`<span class="line-badge" style="--line-color:${colors[id]}">${id}</span>`).join('')}</div><p class="coordinate-fact">${s.coordinate?`${s.coordinate.latitude.toFixed(5)}° N / ${s.coordinate.longitude.toFixed(5)}° E<br>${s.coordinate.method==='official_address_osm_junction_approx'?'官网地址路口近似定位 · 站体中心待核对':'WGS84 · OSM 车站位置'}`:'尚未匹配可靠公开坐标。'}</p><a class="detail-link" href="./?station=${encodeURIComponent(s.name)}#station-info">查本车站资料与厕所 ↗</a></div><div class="station-elevation"><div class="elevation-fact"><span>站点位置的地表海拔 · 约值</span><strong>${s.ground_elevation_m===null?'待补':Math.round(s.ground_elevation_m)}<small>${s.ground_elevation_m===null?'':'m'}</small></strong><p>EGM96 高程参考 · 栅格采样</p></div><div class="rail-fact"><span>轨面绝对标高</span><strong>${s.rail_elevation_status==='reference_only'?'有参考值 · 基准未注明':'尚未收集'}</strong></div></div>${s.engineering_observations.length?`<section class="engineering-fact"><h3>公开工程资料</h3>${s.engineering_observations.map(o=>`<div class="engineering-record"><p>${escape(o.description)}</p><small>${escape(source(o.source_id).published_at||'')} · ${escape(o.source_locator)}</small>${sourceAnchor(o.source_id)}</div>`).join('')}</section>`:''}`;
   $('#map-selection').textContent=`${s.name} · ${s.ground_elevation_m===null?'海拔待补':'地表约 '+Math.round(s.ground_elevation_m)+' m'} · 轨面高程待补`;
   renderProfile();
 }

diff --git a/src/terrain.html b/src/terrain.html
@@ -44,10 +44,10 @@
         <div class="terrain-adjust"><label>高差 <input id="vertical-scale" type="range" min="1" max="40" value="8" aria-label="高差放大"><output id="vertical-scale-value">8 ×</output></label><label>地形 <input id="terrain-opacity" type="range" min="0" max="100" value="30" aria-label="地形显示强度"></label><label class="depth-toggle"><input id="show-depth" type="checkbox">结构深度</label><span>视觉放大 · 海拔估值不变</span></div>
         <div id="terrain-profile" class="terrain-profile"></div>
       </section>
-      <aside class="atlas-panel">
+      <section class="atlas-panel" aria-label="车站资料">
         <form id="terrain-search-form" class="station-search"><label for="terrain-search">定位车站</label><div><input id="terrain-search" list="terrain-station-list" placeholder="例如 新街口、莫愁湖" autocomplete="off"><button type="submit" aria-label="定位所选车站">↗</button></div><datalist id="terrain-station-list"></datalist><output id="terrain-search-status" aria-live="polite"></output></form>
         <div id="terrain-station-detail" class="terrain-station-detail" aria-live="polite"></div>
-      </aside>
+      </section>
     </div>
     <div class="atlas-bottom"><div><strong id="terrain-data-count">正在整理地理资料</strong><p>彩色线路按地表投影显示，用于辨认走向；本版尚未取得完整轨面绝对标高，缺失值保留为空。<br>结构深度杆为相对地表示意，不代表站台或轨面深度；疑似异常地形标灰。</p></div><div class="altitude-legend"><span>地表海拔</span><i></i><div><span>0 m</span><span>300 m</span><span>600 m+</span></div></div></div>
     <details class="source-notes"><summary>数据来源与精度说明 <span>采集日期、坐标及高程基准 ↗</span></summary><div id="terrain-source-notes"></div><p>线路与坐标：© OpenStreetMap contributors，ODbL；地形：Mapzen Terrain Tiles。Global GMTED2010 / SRTM terrain data courtesy of the U.S. Geological Survey。高程为栅格采样估值，不能作为工程测量或站内楼层高度。</p><a href="data/metro-3d.json" download="南京地铁-三维地理资料.json">下载结构化三维资料 JSON ↗</a></details>
